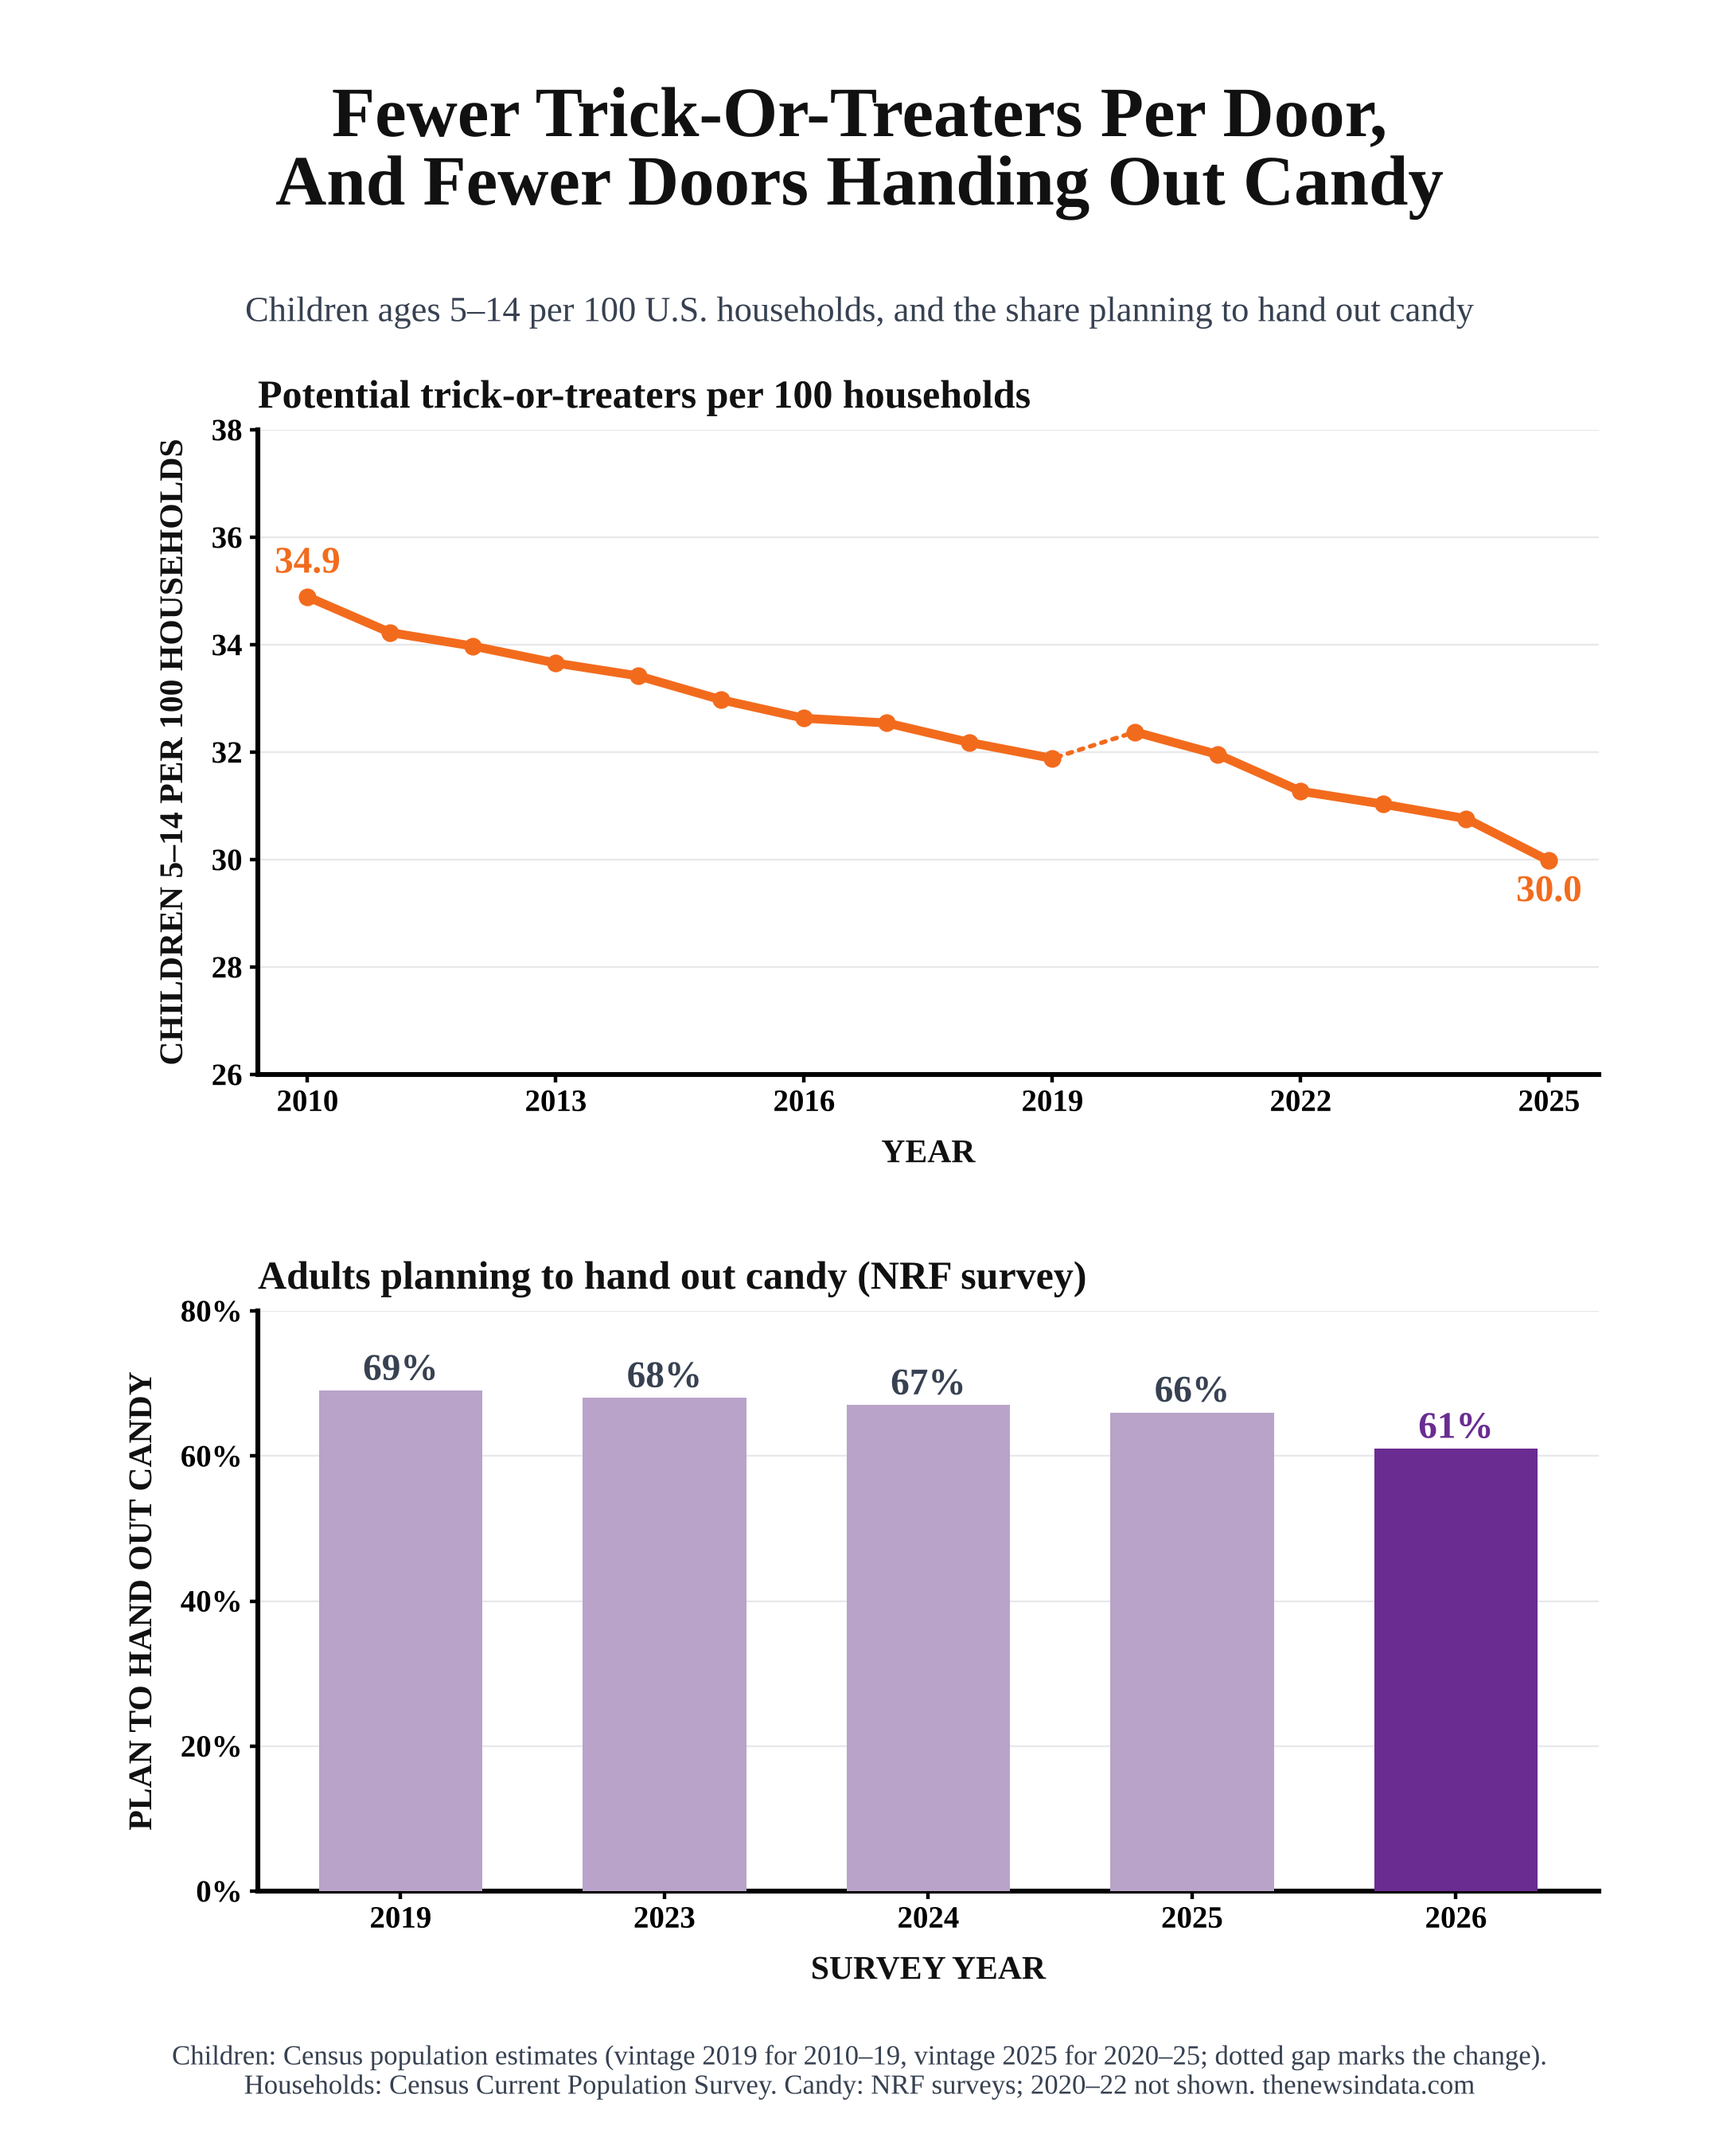
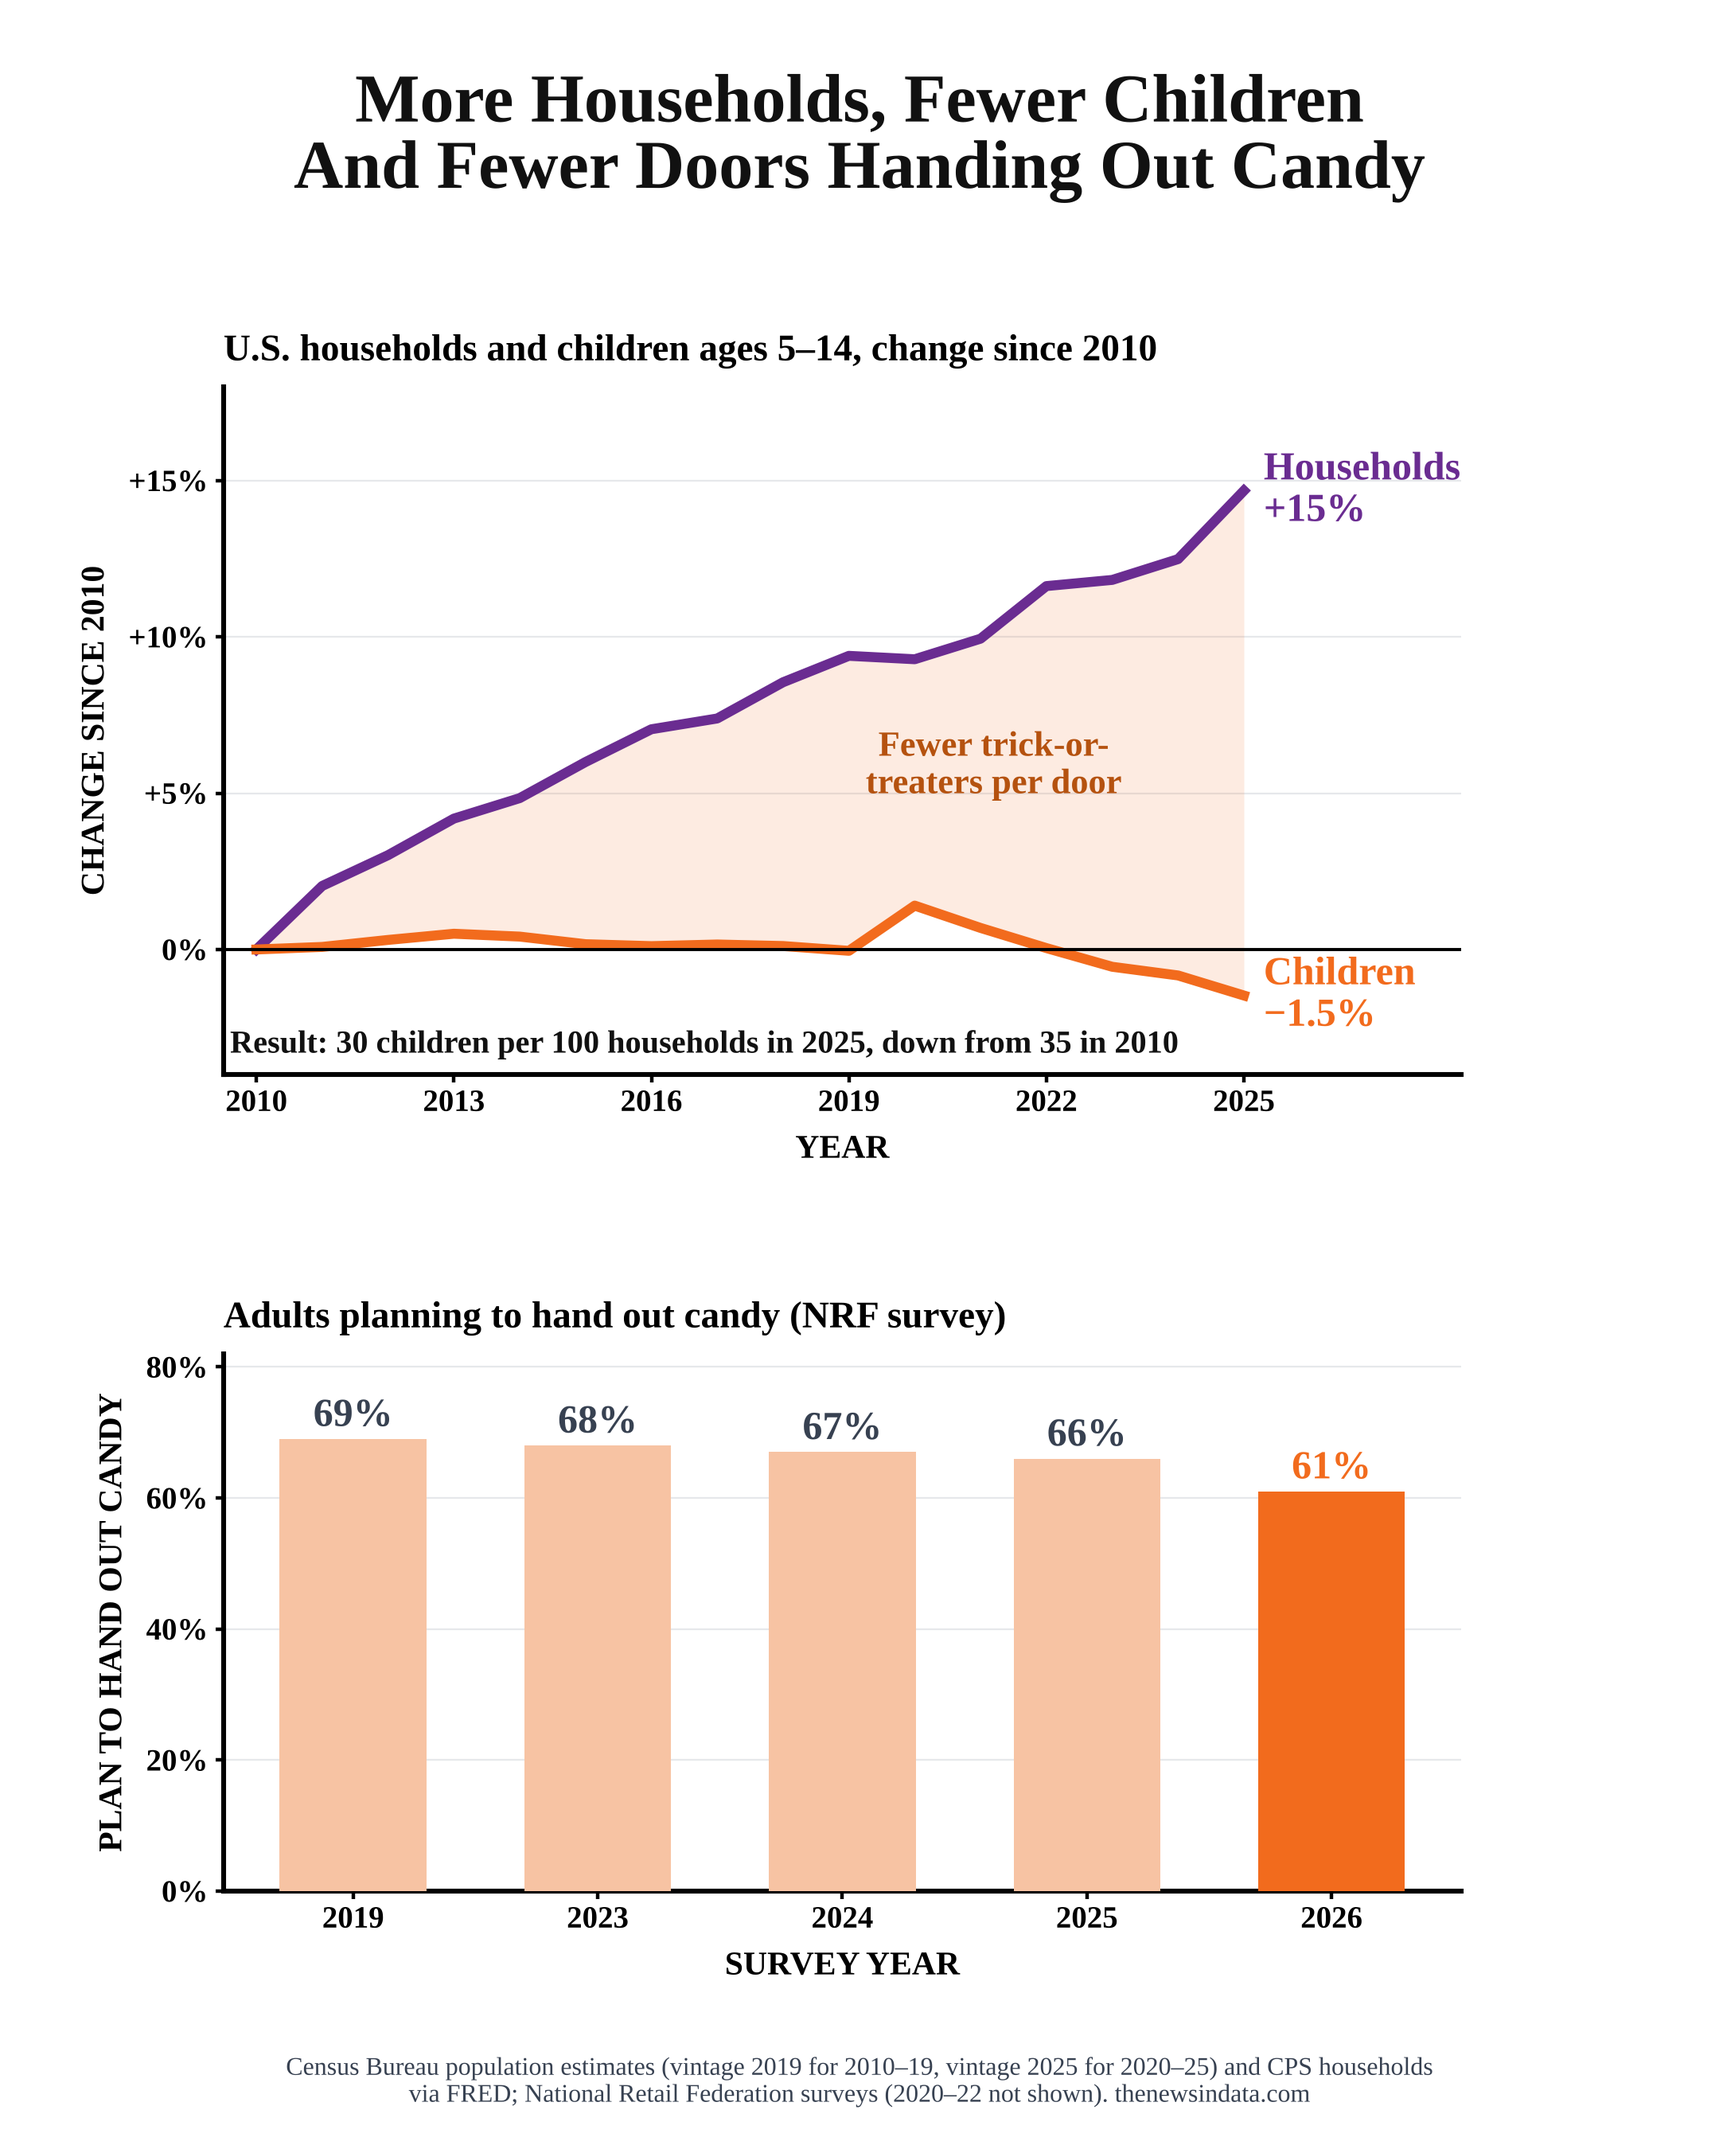
Halloween lead chart: households vs. children gap plus candy share
Claude-Session: https://claude.ai/code/session_014ps2HoqtiaDX9KtWWc6m6n

diff --git a/halloween/post-body.html b/halloween/post-body.html
@@ -1,6 +1,6 @@
 <style>.nid-a h2{margin:1.6em 0 .5em}.nid-a .nid-fig{margin:2.4em auto;max-width:620px}.nid-a .nid-fig img{width:100%;height:auto;display:block;border:1px solid #e6e3dd;border-radius:6px}.nid-a .nid-photo{max-width:520px}.nid-a .nid-fig figcaption{font-size:.82em;color:#5f7268;margin-top:.5em;line-height:1.4}.nid-a .nid-method{font-size:.92em;margin-top:2em}.nid-a .nid-fig.nid-wide{max-width:100%}.nid-a .nid-wide img{border-radius:8px}</style><div class="nid-a">
 <p>The United States had 30 children ages 5 to 14, the group the Census Bureau calls potential trick-or-treaters, for every 100 households in 2025, down from 35 in 2010. The number of children has edged down while the number of households has grown by about 17 million, so each door can expect fewer knocks. Fewer people also plan to answer: 61% of adults in this year's National Retail Federation survey plan to hand out candy, down from 69% in 2019.</p>
-<figure class="nid-fig"><img src="https://stories.thenewsindata.com/halloween/halloween-chart.png?v=2" alt="Two charts. The number of children ages 5 to 14 per 100 U.S. households fell from 34.9 in 2010 to 30.0 in 2025. The share of adults planning to hand out candy fell from 69% in 2019 to 61% in 2026." width="1080" height="1350"></figure>
+<figure class="nid-fig"><img src="https://stories.thenewsindata.com/halloween/halloween-chart.png?v=3" alt="Two charts. Since 2010, U.S. households grew 15% while children ages 5 to 14 fell 1.5%, leaving 30 children per 100 households in 2025, down from 35. The share of adults planning to hand out candy fell from 69% in 2019 to 61% in 2026." width="1080" height="1350"></figure>
 <h2>Fewer children, more households</h2>
 <p>There were about 40.4 million children ages 5 to 14 in 2025, roughly 1.2 million fewer than in 2020, according to Census Bureau population estimates, as lower birth rates since 2008 move through the age group. The number of households grew from 117.5 million in 2010 to 134.8 million in 2025. Households have grown far faster than the number of children, so more homes on a typical street have no trick-or-treaters of their own.</p>
 <figure class="nid-fig nid-photo nid-wide"><img src="https://upload.wikimedia.org/wikipedia/commons/thumb/1/18/Schriever_AFB_hosts_trick-or-treat%2C_Halloween_Parade_%285884502%29.jpg/1280px-Schriever_AFB_hosts_trick-or-treat%2C_Halloween_Parade_%285884502%29.jpg" alt="A toddler in a white bunny costume outdoors in the snow" loading="lazy"><figcaption>A young trick-or-treater in a bunny costume at a Halloween parade in Colorado. Photo: <a href="https://commons.wikimedia.org/wiki/File:Schriever_AFB_hosts_trick-or-treat,_Halloween_Parade_(5884502).jpg">U.S. Air Force</a>, <a href="https://commons.wikimedia.org/wiki/Commons:Licensing">Public domain</a>, via Wikimedia Commons.</figcaption></figure>
@@ -14,10 +14,10 @@
 <style>#nid-flip{margin:2.4em auto;max-width:620px}#nid-flip .t{display:flex;justify-content:center;gap:8px;margin-bottom:10px}#nid-flip button{font:600 15px/1 Georgia,serif;padding:9px 18px;border-radius:999px;border:2px solid #6A2C91;background:#fff;color:#6A2C91;cursor:pointer}#nid-flip button[aria-pressed=true]{background:#6A2C91;color:#fff}#nid-flip .v{position:relative;cursor:pointer}#nid-flip img{width:100%;height:auto;display:block;border:1px solid #e6e3dd;border-radius:6px}#nid-flip img[hidden]{display:none}#nid-flip .h{text-align:center;font-size:.82em;color:#5f7268;margin-top:.5em}</style><div id="nid-flip"><div class="t" role="group" aria-label="Choose a view"><button type="button" data-i="0" aria-pressed="true">Map</button><button type="button" data-i="1" aria-pressed="false">By candy</button></div><div class="v" role="button" tabindex="0" aria-label="Switch chart view"><img src="https://stories.thenewsindata.com/halloween/halloween-candy-map.png?v=3" alt="Tile map of each state's most popular Halloween candy in 2026. Chocolate leads in 23 states and non-chocolate candy in 27; M&amp;M's and Sour Patch Kids lead 10 states each." width="1080" height="1350"><img hidden src="https://stories.thenewsindata.com/halloween/halloween-candy-brands.png?v=1" alt="States grouped by their most popular Halloween candy: M&amp;M's and Sour Patch Kids 10 states each, Hot Tamales 4, Butterfinger and candy corn 3 each, and eight candies that lead one state." width="1080" height="1350" loading="lazy"></div><p class="h">Tap the chart to switch between the map and the states grouped by candy.</p></div><script>(function(){var r=document.getElementById("nid-flip");if(!r)return;var im=r.querySelectorAll(".v img"),b=r.querySelectorAll("button"),cur=0;function show(i){cur=i;for(var k=0;k<2;k++){im[k].hidden=(k!==i);b[k].setAttribute("aria-pressed",k===i?"true":"false");}}b[0].onclick=function(){show(0)};b[1].onclick=function(){show(1)};var v=r.querySelector(".v");v.onclick=function(){show(1-cur)};v.onkeydown=function(e){if(e.key==="Enter"||e.key===" "){e.preventDefault();show(1-cur);}};})();</script>
 <h2>Forty years of candy spending, region by region</h2>
 <p>The Bureau of Labor Statistics tracks what households spend on "sugar and other sweets," mostly candy and gum, by region. After adjusting for inflation, spending in every region drifted down from the mid-1990s to the late 2010s, then rose quickly in the 2020s. Western households spend the most, an average of $257 a year over 2022 to 2024 in 2024 dollars, and Southern households the least, $208.</p>
-<figure class="nid-fig"><img src="https://stories.thenewsindata.com/halloween/halloween-sweets.png?v=2" alt="Line chart of inflation-adjusted household spending on sugar and other sweets by Census region, 1984 to 2024. Spending fell from the mid-1990s to the late 2010s and rose in the 2020s; the West spends the most and the South the least." width="1080" height="1350"></figure>
+<figure class="nid-fig"><img src="https://stories.thenewsindata.com/halloween/halloween-sweets.png?v=3" alt="Line chart of inflation-adjusted household spending on sugar and other sweets by Census region, 1984 to 2024. Spending fell from the mid-1990s to the late 2010s and rose in the 2020s; the West spends the most and the South the least." width="1080" height="1350"></figure>
 <h2>Spider-Man and witches lead the costumes</h2>
 <p>About 4.6 million children plan to dress as Spider-Man, twice as many as the next costume, a generic superhero. Witch is the top adult costume at 4.8 million, followed by vampire at 4.2 million.</p>
-<figure class="nid-fig"><img src="https://stories.thenewsindata.com/halloween/halloween-costumes.png?v=2" alt="Bar charts of the top Halloween costumes in 2026. Children: Spider-Man 4.6 million, superhero 2.3 million, princess 2.2 million. Adults: witch 4.8 million, vampire 4.2 million, Batman 2 million." width="1080" height="1350"></figure>
+<figure class="nid-fig"><img src="https://stories.thenewsindata.com/halloween/halloween-costumes.png?v=3" alt="Bar charts of the top Halloween costumes in 2026. Children: Spider-Man 4.6 million, superhero 2.3 million, princess 2.2 million. Adults: witch 4.8 million, vampire 4.2 million, Batman 2 million." width="1080" height="1350"></figure>
 <p>Pets get costumes too. Pumpkin is the most popular pet costume, chosen by 11.6% of people dressing up a pet, followed by hot dog at 5.9%.</p>
 <figure class="nid-fig nid-photo nid-wide"><img src="https://upload.wikimedia.org/wikipedia/commons/thumb/f/ff/Hotdog_dog_costume_%288106428599%29.jpg/1280px-Hotdog_dog_costume_%288106428599%29.jpg" alt="A shiba inu wearing a hot dog costume on a leash" loading="lazy"><figcaption>A dog dressed as a hot dog, the second most popular pet costume this year. Photo: <a href="https://commons.wikimedia.org/wiki/File:Hotdog_dog_costume_(8106428599).jpg">Petful</a>, <a href="https://creativecommons.org/licenses/by/2.0/">CC BY 2.0</a>, via Wikimedia Commons.</figcaption></figure>
 <h2>What the data can&#x27;t tell us</h2>
